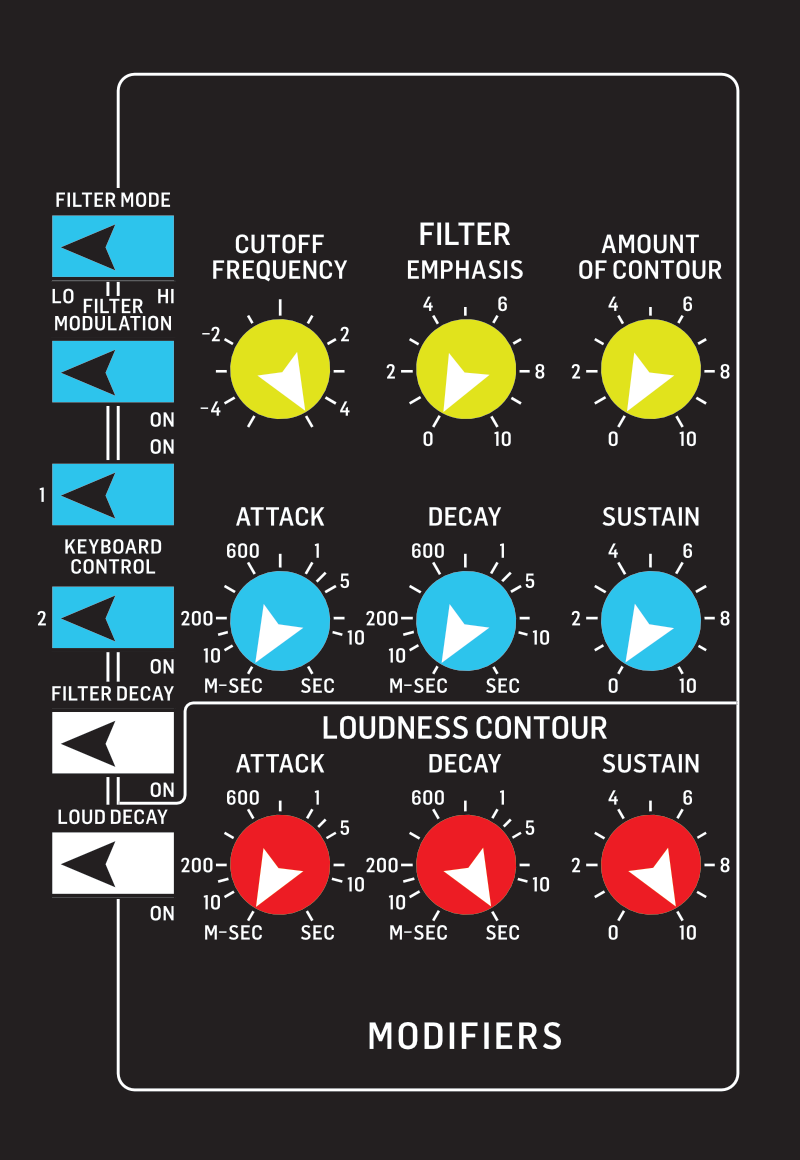
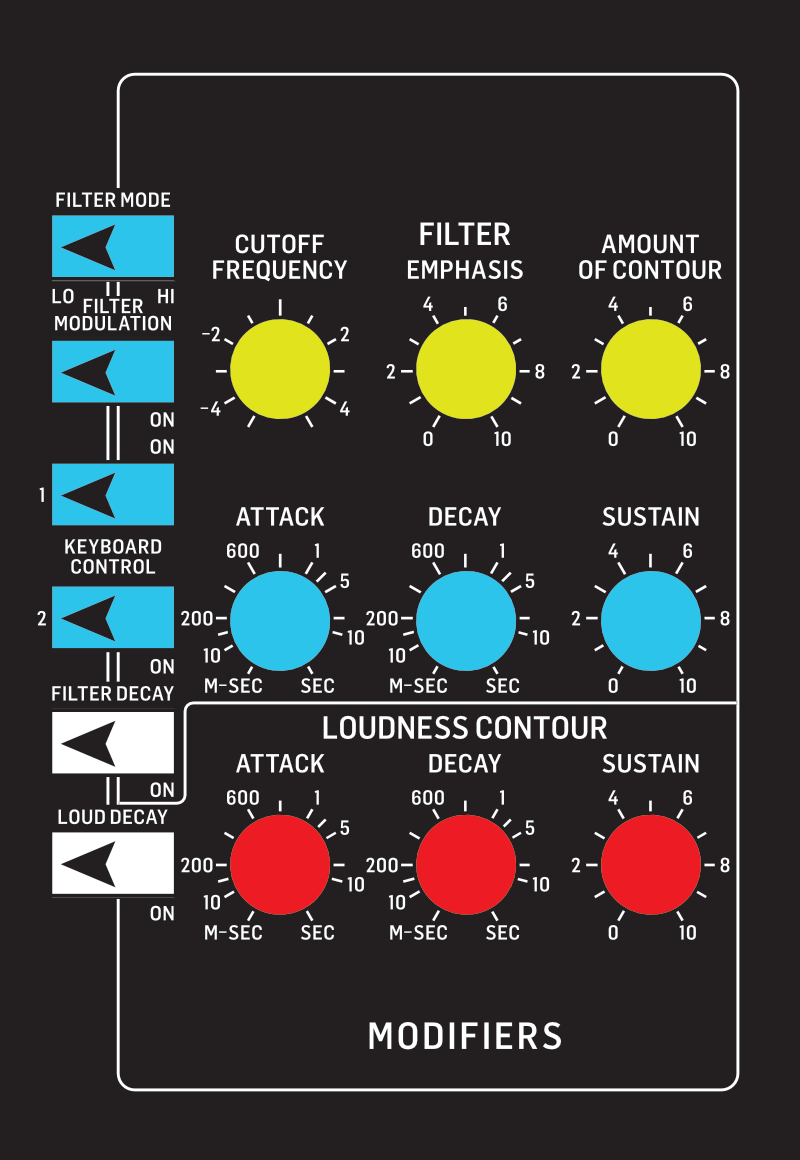
v0.9.36 — Kiosk mode: calibrated knob angles, switch indicators, emphasis static pointer

diff --git a/js/kiosk.js b/js/kiosk.js
@@ -1,20 +1,40 @@
 // ---- Kiosk overlay — panel image with live knob pointer rendering ----
 
 const KIOSK_KNOBS = [
-  { id:'cutoff',   x:280, y:371,  getVal:()=> state.floor },
-  { id:'amount',   x:651, y:371,  getVal:()=> state.scale },
-  { id:'attackF',  x:280, y:618,  getVal:()=> state.a },
-  { id:'decayF',   x:466, y:618,  getVal:()=> state.d },
-  { id:'sustainF', x:651, y:618,  getVal:()=> state.s },
-  { id:'attack',   x:280, y:864,  getVal:()=> state.a },
-  { id:'decay',    x:466, y:864,  getVal:()=> state.d },
-  { id:'sustain',  x:651, y:864,  getVal:()=> state.s },
+  { id:'cutoff',   x:280, y:371,  getVal:()=> state.floor, curve: false },
+  { id:'amount',   x:651, y:371,  getVal:()=> state.scale, curve: false },
+  { id:'attackF',  x:280, y:618,  getVal:()=> state.a,     curve: true  },
+  { id:'decayF',   x:466, y:618,  getVal:()=> state.d,     curve: true  },
+  { id:'sustainF', x:651, y:618,  getVal:()=> state.s,     curve: false },
+  { id:'attack',   x:280, y:864,  getVal:()=> state.a,     curve: true  },
+  { id:'decay',    x:466, y:864,  getVal:()=> state.d,     curve: true  },
+  { id:'sustain',  x:651, y:864,  getVal:()=> state.s,     curve: false },
 ];
+
+const KNOB_ANGLE_CURVE = [
+  { p: 0.00, deg: 210 },
+  { p: 0.08, deg: 240 },
+  { p: 0.25, deg: 270 },
+  { p: 0.42, deg: 330 },
+  { p: 0.58, deg:  30 },
+  { p: 0.75, deg:  60 },
+  { p: 0.90, deg: 105 },
+  { p: 1.00, deg: 150 },
+];
+
+function posToAngle(p) {
+  for (let i = 1; i < KNOB_ANGLE_CURVE.length; i++) {
+    const lo = KNOB_ANGLE_CURVE[i-1], hi = KNOB_ANGLE_CURVE[i];
+    if (p <= hi.p) {
+      const t = (p - lo.p) / (hi.p - lo.p);
+      return lo.deg + t * (hi.deg - lo.deg);
+    }
+  }
+  return KNOB_ANGLE_CURVE[KNOB_ANGLE_CURVE.length - 1].deg;
+}
 
 const KNOB_RADIUS    = 50;
 const POINTER_LENGTH = 40;
-const MIN_ANGLE      = -135; // degrees, measured from 12 o'clock
-const MAX_ANGLE      =  135;
 
 function drawKiosk(){
   const canvas = document.getElementById('kioskCanvas');
@@ -28,8 +48,13 @@ function drawKiosk(){
 
   KIOSK_KNOBS.forEach(knob => {
     const val = Math.max(0, Math.min(1, knob.getVal()));
-    const angleDeg = MIN_ANGLE + val * (MAX_ANGLE - MIN_ANGLE);
-    // Convert from 12 o'clock (−90° in canvas coords) to canvas radians
+    // curve knobs use piecewise angle table; linear knobs use 210°→510° sweep
+    // angle convention: 0° = 6 o'clock, increasing clockwise
+    const angleDeg = knob.curve
+      ? posToAngle(val)
+      : knob.sustain
+        ? 210 + val * 300
+        : 210 + val * 300;
     const angleRad = (angleDeg - 90) * Math.PI / 180;
     const x2 = knob.x + Math.cos(angleRad) * POINTER_LENGTH;
     const y2 = knob.y + Math.sin(angleRad) * POINTER_LENGTH;
@@ -38,6 +63,17 @@ function drawKiosk(){
     ctx.lineTo(x2, y2);
     ctx.stroke();
   });
+
+  // Filter Emphasis — static at zero
+  const emphX = 466, emphY = 371;
+  const emphAngle = (210 - 90) * Math.PI / 180;
+  ctx.beginPath();
+  ctx.moveTo(emphX, emphY);
+  ctx.lineTo(emphX + Math.cos(emphAngle) * POINTER_LENGTH, emphY + Math.sin(emphAngle) * POINTER_LENGTH);
+  ctx.strokeStyle = 'white';
+  ctx.lineWidth = 6;
+  ctx.lineCap = 'round';
+  ctx.stroke();
 }
 
 let kioskOpen = false;
